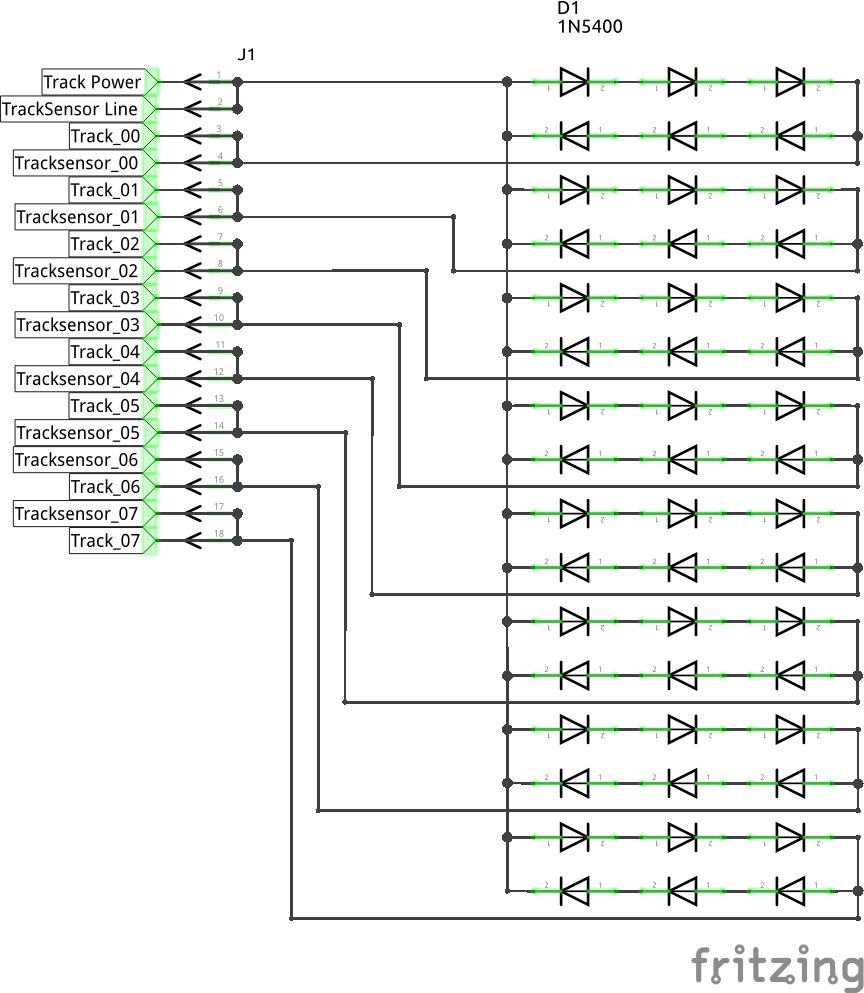
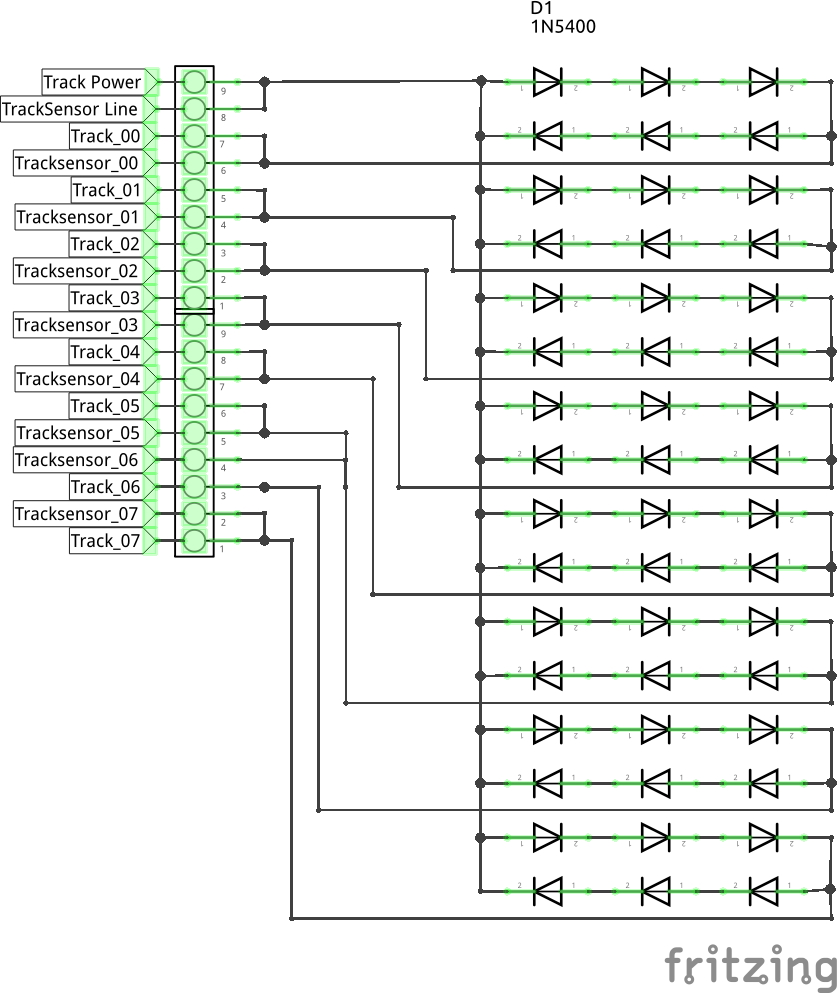
trackinterface pcb

diff --git a/omjk/OMJK.md b/omjk/OMJK.md
@@ -51,6 +51,10 @@
 |:---:|
 |![Schematic1](./Fritzing/PCB-TrackInterface/TrackInterface_schem.png)|
 
+|PCB|
+|:---:|
+|![Schematic1](./Fritzing/PCB-TrackInterface/TrackInterface_bb.png)|
+
 ### TrackInterface Files
 
 * [Fritzing TrackSensor-File](./Fritzing/PCB-TrackInterface/TrackInterface.fzz)
